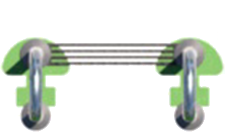
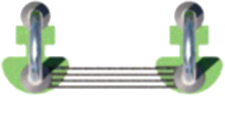
3

diff --git a/js/script.js b/js/script.js
@@ -19,7 +19,11 @@ var imgMapsSkhodnyaG=new Image();
 var imgMapsSkhodnyaGR=new Image();
 var imgMapsSkhodnyaW=new Image();
 var imgMapsSkhodnyaBE=new Image();
-var imgMapsStairs=new Image();
+var imgMapsStairsB=new Image();
+var imgMapsStairsG=new Image();
+var imgMapsStairsGR=new Image();
+var imgMapsStairsW=new Image();
+var imgMapsStairsBE=new Image();
 var imgMapsBench=new Image();
 var imgMapsRack=new Image();
 var imgMapsDuck=new Image();
@@ -104,7 +108,11 @@ function init(){
 	imgMapsSkhodnyaGR.src = 'img/newimg/Ganway_grow.png'; 
 	imgMapsSkhodnyaW.src = 'img/newimg/gangway_white.png'; 
 	imgMapsSkhodnyaBE.src = 'img/newimg/gangway_gr.png'; 
-	imgMapsStairs.src='img/photo-objects-png/stairs/stairs-blue.png';
+	imgMapsStairsB.src = 'img/newimg/stairs_blue.png'; 
+	imgMapsStairsG.src = 'img/newimg/stairs_green.png' ; 
+	imgMapsStairsGR.src ='img/newimg/stairs_grow.png'  
+	imgMapsStairsW.src = 'img/newimg/stairs_white.png'; 
+	imgMapsStairsBE.src ='img/newimg/stairs_gr.png'   
 	imgMapsBench.src='img/bench.png';
 	imgMapsRack.src='img/rack.png';
 	imgMapsDuck.src='img/connector.png';
@@ -285,13 +293,13 @@ function change_color(id, colors,num){
 			break;
 		case 3:
 			switch (colorArr[num-1]){
-				case 'green':document.getElementById('st').src='img/pontoon-redbutton.png';break;
-				case 'blue' :document.getElementById('st').src='img/pontoonbutton.png';break;
-				case 'brown':document.getElementById('st').src='img/pontoon-green.png';break;
-				case 'white':document.getElementById('st').src='img/newimg/ponton_white.png';break;
-				case 'beige':document.getElementById('st').src='img/newimg/ponton_gr.png';break;
+				case 'green':document.getElementById('st').src='img/newimg/stairs_green_obj.png';break;
+				case 'blue' :document.getElementById('st').src='img/newimg/stairs_blue_obj.png';break;
+				case 'brown':document.getElementById('st').src='img/newimg/stairs_grow_obj.png';break;
+				case 'white':document.getElementById('st').src='img/newimg/stairs_white_obj.png';break;
+				case 'beige':document.getElementById('st').src='img/newimg/stairs_gray_obj.png';break;
 			}
-			if(model==2){
+			if(model==3){
 				color=colorArr[num-1];
 			}
 			document.getElementById('ch_c3').style.background = colors;
@@ -299,13 +307,13 @@ function change_color(id, colors,num){
 			break;
 		case 4:
 			switch (colorArr[num-1]){
-				case 'green':document.getElementById('con').src='img/pontoon-redbutton.png';break;
-				case 'blue' :document.getElementById('con').src='img/pontoonbutton.png';break;
-				case 'brown':document.getElementById('con').src='img/pontoon-green.png';break;
-				case 'white':document.getElementById('con').src='img/newimg/ponton_white.png';break;
-				case 'beige':document.getElementById('con').src='img/newimg/ponton_gr.png';break;
+				case 'green':document.getElementById('con').src='img/newimg/connector_green_obj.png';break;
+				case 'blue' :document.getElementById('con').src='img/newimg/connector_blue_obj.png';break;
+				case 'brown':document.getElementById('con').src='img/newimg/connector_grow_obj.png';break;
+				case 'white':document.getElementById('con').src='img/newimg/connector_white_obj.png';break;
+				case 'beige':document.getElementById('con').src='img/newimg/connector_gray_obj.png';break;
 			}		
-			if(model==3){
+			if(model==4){
 				color=colorArr[num-1];
 			}
 			document.getElementById('ch_c4').style.background = colors;
@@ -313,13 +321,13 @@ function change_color(id, colors,num){
 			break;
 		case 5:
 			switch (colorArr[num-1]){
-				case 'green':document.getElementById('stcon').src='img/pontoon-redbutton.png';break;
-				case 'blue' :document.getElementById('stcon').src='img/pontoonbutton.png';break;
-				case 'brown':document.getElementById('stcon').src='img/pontoon-green.png';break;
-				case 'white':document.getElementById('stcon').src='img/newimg/ponton_white.png';break;
-				case 'beige':document.getElementById('stcon').src='img/newimg/ponton_gr.png';break;
+				case 'green':document.getElementById('stcon').src='img/newimg/stays_green_obj.png';break;
+				case 'blue' :document.getElementById('stcon').src='img/newimg/stay_blue_obj.png';break;
+				case 'brown':document.getElementById('stcon').src='img/newimg/stays_grow_obj.png';break;
+				case 'white':document.getElementById('stcon').src='img/newimg/stays_white_obj.png';break;
+				case 'beige':document.getElementById('stcon').src='img/newimg/stays_gray_obj.png';break;
 			}
-			if(model==4){
+			if(model==5){
 				color=colorArr[num-1];
 			}
 			document.getElementById('ch_c5').style.background = colors;
@@ -327,19 +335,20 @@ function change_color(id, colors,num){
 			break;
 		case 6:
 			switch (colorArr[num-1]){
-				case 'green':document.getElementById('utka').src='img/pontoon-redbutton.png';break;
-				case 'blue' :document.getElementById('utka').src='img/pontoonbutton.png';break;
-				case 'brown':document.getElementById('utka').src='img/pontoon-green.png';break;
-				case 'white':document.getElementById('utka').src='img/newimg/ponton_white.png';break;
-				case 'beige':document.getElementById('utka').src='img/newimg/ponton_gr.png';break;
+				case 'green':document.getElementById('utka').src='img/newimg/connector_green_obj.png';break;
+				case 'blue' :document.getElementById('utka').src='img/newimg/connector_blue_obj.png';break;
+				case 'brown':document.getElementById('utka').src='img/newimg/connector_grow_obj.png';break;
+				case 'white':document.getElementById('utka').src='img/newimg/connector_white_obj.png';break;
+				case 'beige':document.getElementById('utka').src='img/newimg/connector_gray_obj.png';break;
 			}
-			if(model==5){
+			if(model==7){
 				color=colorArr[num-1];
 			}
 			document.getElementById('ch_c6').style.background = colors;
 			document.getElementById('ch_c6').style.color = colors;
 			break;
 	}
+	draw();
 }
 
 function onScrollCanvas(){
@@ -715,31 +724,31 @@ function canvasClick(evt){
 				break;
 			case 3:
 				if(ArrangeStairs(x,y,direction,evt.offsetX,evt.offsetY)){
-					maps[y][x].color=color;
+					//maps[y][x].color=color;
 					stairs.col++;
 				}
 				break;
 			case 4:
 				if(ArrangeConnector(x,y,direction,evt.offsetX,evt.offsetY)){
-					maps[y][x].color=color;
+					//maps[y][x].color=color;
 					connector.col++;
 				}
 				break;
 			case 5:
 				if(ArrangeRack(x,y,direction,evt.offsetX,evt.offsetY)){
-					maps[y][x].color=color;
+					//maps[y][x].color=color;
 					stays.col++;
 				}
 				break;
 			case 6:
 				if(ArrangeBench(x,y,direction,evt.offsetX,evt.offsetY)){
-					maps[y][x].color=color;
+					//maps[y][x].color=color;
 					bench.col++;
 				}
 				break;
 			case 7:
 				if(ArrangeDuck(x,y,direction,evt.offsetX,evt.offsetY)){	
-					maps[y][x].color=color;
+					//maps[y][x].color=color;
 					duck.col++;
 				}
 				break;
@@ -866,11 +875,11 @@ function canvasMoveMouse(evt){
 			break;
 		case 3:
 			switch (color){
-				case 'green':imgGhost.src='img/photo-objects-png/stairs/stairs-blue-ghost.png';imgMouse.src = 'img/pontoon-redbutton.png';break;
-				case 'blue' :imgGhost.src='img/photo-objects-png/stairs/stairs-blue-ghost.png';imgMouse.src = 'img/photo-objects-png/stairs/stairs-blue.png';break;
-				case 'brown':imgGhost.src='img/photo-objects-png/stairs/stairs-blue-ghost.png';imgMouse.src = 'img/pontoon-green.png';break;
-				case 'white':imgGhost.src='img/photo-objects-png/stairs/stairs-blue-ghost.png';imgMouse.src = 'img/pontoonbutton.png';break;
-				case 'beige':imgGhost.src='img/photo-objects-png/stairs/stairs-blue-ghost.png';imgMouse.src = 'img/pontoon-gray.png';break;
+				case 'green':imgGhost.src='img/newimg/stairs_green_shadow.png';imgMouse.src = 'img/newimg/stairs_green.png';break;
+				case 'blue' :imgGhost.src='img/newimg/stairs_blue_shadow.png';imgMouse.src =  'img/newimg/stairs_blue.png' ;break;
+				case 'brown':imgGhost.src='img/newimg/stairs_grow_shadow.png';imgMouse.src =  'img/newimg/stairs_grow.png' ;break;
+				case 'white':imgGhost.src='img/newimg/stairs_white_shadow.png';imgMouse.src = 'img/newimg/stairs_white.png';break;
+				case 'beige':imgGhost.src='img/newimg/stairs_gray_shadow.png';imgMouse.src =  'img/newimg/stairs_gr.png'   ;break;
 			}
 			ArrangeStairsGhost(x,y,evt.offsetX,evt.offsetY);
 			switch (direction){
@@ -2988,46 +2997,42 @@ function draw(){
 					case 555:
 						ctx.rotate(90*Math.PI/180);
 						switch (maps[i][j].color){
-							case 'green':imgMapsStairs.src='img/photo-objects-png/stairs/stairs-blue.png';break;
-							case 'blue':imgMapsStairs.src='img/photo-objects-png/stairs/stairs-blue.png';break;
-							case 'brown':imgMapsStairs.src='img/photo-objects-png/stairs/stairs-blue.png';break;
-							case 'white':imgMapsStairs.src='img/photo-objects-png/stairs/stairs-blue.png';break;
-							case 'beige':imgMapsStairs.src='img/photo-objects-png/stairs/stairs-blue.png';break;
+							case 'green':ctx.drawImage(imgMapsStairsG, 0-(45+scale)*4+(45+scale)/3, 0, (45+scale)+15, (45+scale)+15);break;
+							case 'blue':ctx.drawImage(imgMapsStairsB, 0-(45+scale)*4+(45+scale)/3, 0, (45+scale)+15, (45+scale)+15);break;
+							case 'brown':ctx.drawImage(imgMapsStairsGR, 0-(45+scale)*4+(45+scale)/3, 0, (45+scale)+15, (45+scale)+15);;break;
+							case 'white':ctx.drawImage(imgMapsStairsW, 0-(45+scale)*4+(45+scale)/3, 0, (45+scale)+15, (45+scale)+15);break;
+							case 'beige':ctx.drawImage(imgMapsStairsBE, 0-(45+scale)*4+(45+scale)/3, 0, (45+scale)+15, (45+scale)+15);break;
 						}
-						ctx.drawImage(imgMapsStairs, 0-(45+scale)*4+(45+scale)/3, 0, (45+scale)+15, (45+scale)+15);
 						break;
 					case 556:
 						ctx.rotate(270*Math.PI/180);
 						switch (maps[i][j].color){
-							case 'green':imgMapsStairs.src='img/photo-objects-png/stairs/stairs-blue.png';break;
-							case 'blue':imgMapsStairs.src='img/photo-objects-png/stairs/stairs-blue.png';break;
-							case 'brown':imgMapsStairs.src='img/photo-objects-png/stairs/stairs-blue.png';break;
-							case 'white':imgMapsStairs.src='img/photo-objects-png/stairs/stairs-blue.png';break;
-							case 'beige':imgMapsStairs.src='img/photo-objects-png/stairs/stairs-blue.png';break;
+							case 'green':ctx.drawImage(imgMapsStairsG,  0+(45+scale)*2+(45+scale)/4, 0-(45+scale)*3, (45+scale)+15, (45+scale)+15);break;
+							case 'blue':ctx.drawImage(imgMapsStairsB,   0+(45+scale)*2+(45+scale)/4, 0-(45+scale)*3, (45+scale)+15, (45+scale)+15);break;
+							case 'brown':ctx.drawImage(imgMapsStairsGR, 0+(45+scale)*2+(45+scale)/4, 0-(45+scale)*3, (45+scale)+15, (45+scale)+15);break;
+							case 'white':ctx.drawImage(imgMapsStairsW,  0+(45+scale)*2+(45+scale)/4, 0-(45+scale)*3, (45+scale)+15, (45+scale)+15);break;
+							case 'beige':ctx.drawImage(imgMapsStairsBE, 0+(45+scale)*2+(45+scale)/4, 0-(45+scale)*3, (45+scale)+15, (45+scale)+15);break;
 						}
-						ctx.drawImage(imgMapsStairs, 0+(45+scale)*2+(45+scale)/4, 0-(45+scale)*3, (45+scale)+15, (45+scale)+15);
 						break;
 					case 558:
 						ctx.rotate(0*Math.PI/180);
 						switch (maps[i][j].color){
-							case 'green':imgMapsStairs.src='img/photo-objects-png/stairs/stairs-blue.png';break;
-							case 'blue':imgMapsStairs.src='img/photo-objects-png/stairs/stairs-blue.png';break;
-							case 'brown':imgMapsStairs.src='img/photo-objects-png/stairs/stairs-blue.png';break;
-							case 'white':imgMapsStairs.src='img/photo-objects-png/stairs/stairs-blue.png';break;
-							case 'beige':imgMapsStairs.src='img/photo-objects-png/stairs/stairs-blue.png';break;
+							case 'green':ctx.drawImage(imgMapsStairsG,  0-(45+scale)*2+(45+scale)/3, 0-(45+scale)*5, (45+scale)+15, (45+scale)+15);break;
+							case 'blue':ctx.drawImage(imgMapsStairsB,   0-(45+scale)*2+(45+scale)/3, 0-(45+scale)*5, (45+scale)+15, (45+scale)+15);break;
+							case 'brown':ctx.drawImage(imgMapsStairsGR, 0-(45+scale)*2+(45+scale)/3, 0-(45+scale)*5, (45+scale)+15, (45+scale)+15);break;
+							case 'white':ctx.drawImage(imgMapsStairsW,  0-(45+scale)*2+(45+scale)/3, 0-(45+scale)*5, (45+scale)+15, (45+scale)+15);break;
+							case 'beige':ctx.drawImage(imgMapsStairsBE, 0-(45+scale)*2+(45+scale)/3, 0-(45+scale)*5, (45+scale)+15, (45+scale)+15);break;
 						}
-						ctx.drawImage(imgMapsStairs, 0-(45+scale)*2+(45+scale)/3, 0-(45+scale)*5, (45+scale)+15, (45+scale)+15);
 						break;
 					case 557:
 						ctx.rotate(180*Math.PI/180);
 						switch (maps[i][j].color){
-							case 'green':imgMapsStairs.src='img/photo-objects-png/stairs/stairs-blue.png';break;
-							case 'blue':imgMapsStairs.src='img/photo-objects-png/stairs/stairs-blue.png';break;
-							case 'brown':imgMapsStairs.src='img/photo-objects-png/stairs/stairs-blue.png';break;
-							case 'white':imgMapsStairs.src='img/photo-objects-png/stairs/stairs-blue.png';break;
-							case 'beige':imgMapsStairs.src='img/photo-objects-png/stairs/stairs-blue.png';break;
+							case 'green':ctx.drawImage(imgMapsStairsG,  0+(45+scale)/3, 0+(45+scale)*2, (45+scale)+15, (45+scale)+15);break;
+							case 'blue':ctx.drawImage(imgMapsStairsB,   0+(45+scale)/3, 0+(45+scale)*2, (45+scale)+15, (45+scale)+15);break;
+							case 'brown':ctx.drawImage(imgMapsStairsGR, 0+(45+scale)/3, 0+(45+scale)*2, (45+scale)+15, (45+scale)+15);break;
+							case 'white':ctx.drawImage(imgMapsStairsW,  0+(45+scale)/3, 0+(45+scale)*2, (45+scale)+15, (45+scale)+15);break;
+							case 'beige':ctx.drawImage(imgMapsStairsBE, 0+(45+scale)/3, 0+(45+scale)*2, (45+scale)+15, (45+scale)+15);break;
 						}
-						ctx.drawImage(imgMapsStairs, 0+(45+scale)/3, 0+(45+scale)*2, (45+scale)+15, (45+scale)+15);
 						break;
 
 					case 655:

diff --git a/index.html b/index.html
@@ -71,7 +71,7 @@
                              <span class="t-obj">
                                  Понтон <br> модульный
                              </span>
-                             <input type="image" alt=" Модуль понтона"  src="img/footer-photo/pontoon-blue.png" id="red" width="100px" height="100px">
+                             <input type="image" alt=" Модуль понтона"  src='img/newimg/ponton_blue.png' id="red" width="100px" height="100px">
                          </div>
                          <div class="color_el"  id="ch_c1">
                              0 
@@ -93,7 +93,7 @@
                          <span class="t-obj">
                              Сходня <br>с переходником
                          </span>
-                         <input type="image" alt="Сходня на берег с переходником и соединителями" src="img/footer-photo/gangway.png" id="gang" width="100px" height="100px">
+                         <input type="image" alt="Сходня на берег с переходником и соединителями" src='img/newimg/gangway_blue_obj.png' id="gang" width="100px" height="100px">
                      </div>
                      <div class="color_el" style="left:303px;"  id="ch_c2">
                          0 
@@ -115,7 +115,7 @@
                          <span class="t-obj">
                              Лестница с соединителями
                          </span>
-                         <input type="image" alt="Лестница для спуска в воду с соединителями"  src="img/footer-photo/stairs.png" id="st" width="100px" height="100px">
+                         <input type="image" alt="Лестница для спуска в воду с соединителями"  src='img/newimg/stairs_blue_obj.png'id="st" width="100px" height="100px">
                      </div>
                      <div class="color_el" style="left:467px;" id="ch_c3">
                          0 
@@ -137,7 +137,7 @@
                          <span class="t-obj">
                              Соединитель<br>понтона
                          </span>
-                         <input type="image" alt="Соединитель понтона"  src="img/footer-photo/connector.png" id="con" width="100px" height="100px">
+                         <input type="image" alt="Соединитель понтона"  src="img/newimg/connector_blue_obj.png" id="con" width="100px" height="100px">
                      </div>
                      <div class="color_el" style="left:631px;" id="ch_c4">
                          0 
@@ -159,7 +159,7 @@
                          <span class="t-obj">
                              Стойка <br> с соединителями
                          </span>
-                         <input type="image" alt=" Стойка ограждения с соединителями"  src="img/footer-photo/rack.png" id="stcon" width="100px" height="100px">
+                         <input type="image" alt=" Стойка ограждения с соединителями"  src='img/newimg/stay_blue_obj.png' id="stcon" width="100px" height="100px">
                      </div>
                      <div class="color_el" style="left:795px;" id="ch_c5">
                          0 
@@ -183,7 +183,7 @@
                      <span class="t-obj">
                          Швартовая <br>утка <br>
                      </span> 
-                     <input type="image" alt="Швартовая утка с соединителем"  src="img/footer-photo/connector.png" id="utka" width="100px" height="100px" >
+                     <input type="image" alt="Швартовая утка с соединителем"  src="img/newimg/connector_blue_obj.png" id="utka" width="100px" height="100px" >
                  </div>
                  <div class="color_el" style="left:959px;" id="ch_c6">
                      0 
